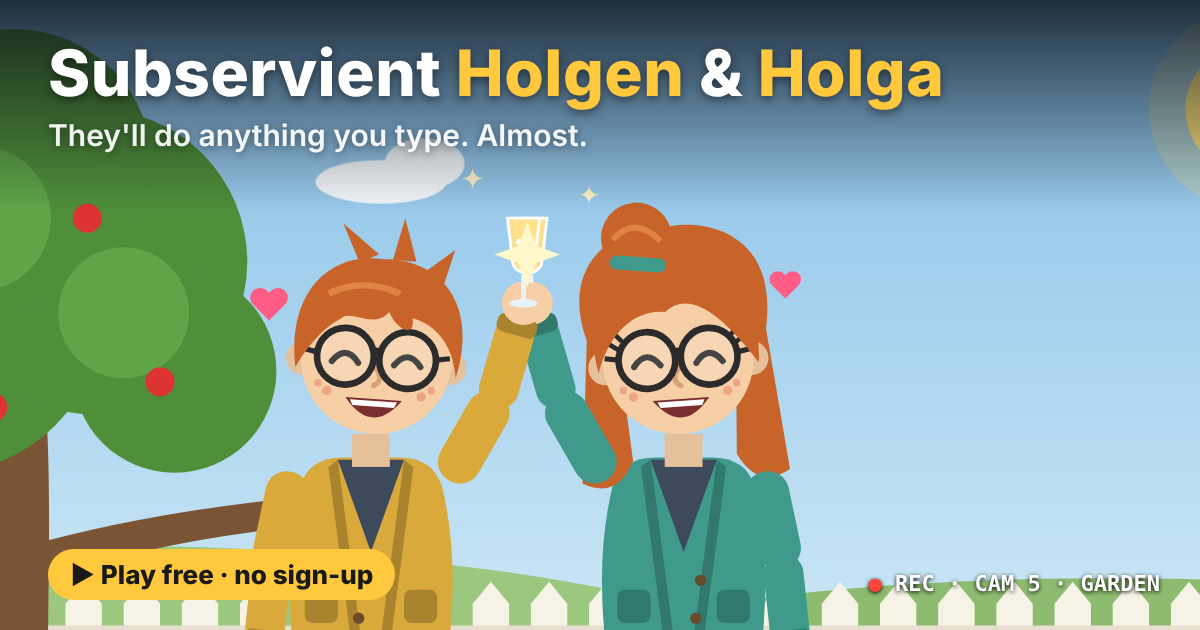
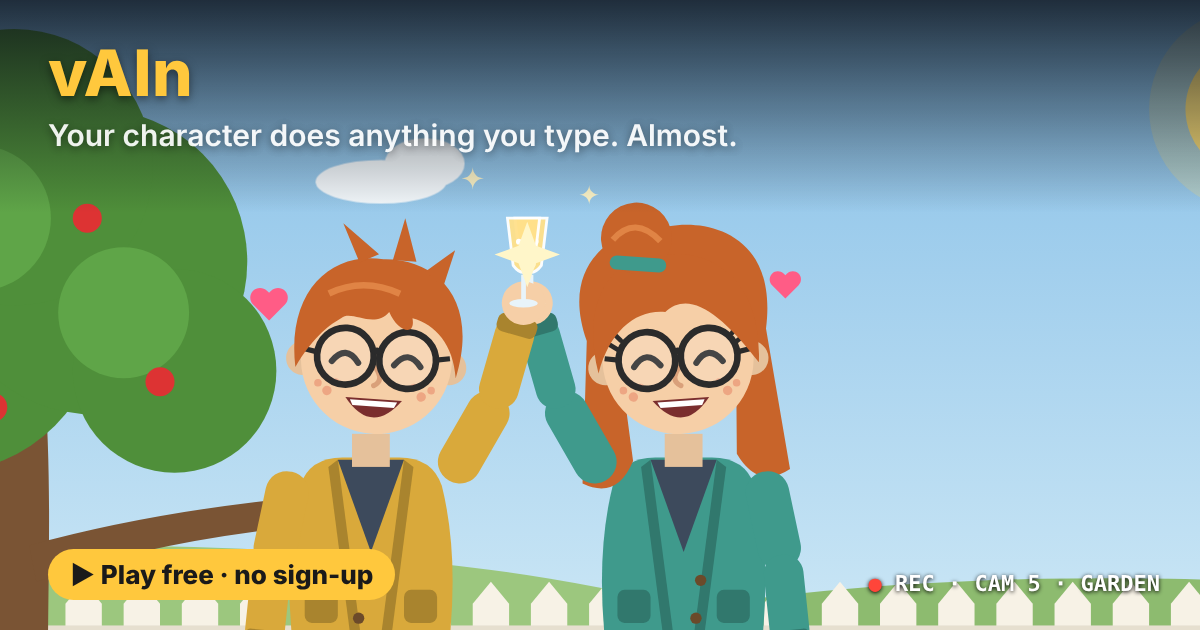
Rename to vAIn; empty name at start; looks never overwritten on other phones; synced positions, bots and passers-by
Claude-Session: https://claude.ai/code/session_016MybYDTzWbZ4jTzL4s6tYo

Changed region(s): [[0.0308, 0.0603, 0.8017, 0.2413]]

diff --git a/index.html b/index.html
@@ -3,19 +3,20 @@
 <head>
 <meta charset="utf-8">
 <meta name="viewport" content="width=device-width, initial-scale=1, maximum-scale=1, user-scalable=no, interactive-widget=resizes-content">
-<title>Subservient Holgen</title>
-<meta name="description" content="Holgen and Holga will do anything you type. Almost. A silly web toy: free, no sign-up.">
+<title>vAIn</title>
+<meta name="apple-mobile-web-app-title" content="vAIn"><meta name="application-name" content="vAIn">
+<meta name="description" content="vAIn: your character does anything you type. Almost. Free, no sign-up.">
 <meta property="og:type" content="website">
-<meta property="og:site_name" content="Subservient Holgen">
-<meta property="og:title" content="Subservient Holgen &amp; Holga">
+<meta property="og:site_name" content="vAIn">
+<meta property="og:title" content="vAIn">
 <meta property="og:description" content="They'll do anything you type. Almost. Play free, no sign-up.">
 <meta property="og:url" content="https://subservient-game.github.io/">
-<meta property="og:image" content="https://subservient-game.github.io/og.png">
+<meta property="og:image" content="https://subservient-game.github.io/og.png?v=2">
 <meta property="og:image:width" content="1200">
 <meta property="og:image:height" content="630">
 <meta property="og:image:alt" content="Holgen and Holga toasting in the garden">
 <meta name="twitter:card" content="summary_large_image">
-<meta name="twitter:image" content="https://subservient-game.github.io/og.png">
+<meta name="twitter:image" content="https://subservient-game.github.io/og.png?v=2">
 <meta name="theme-color" content="#131519">
 <link rel="icon" type="image/png" sizes="32x32" href="favicon-32.png">
 <link rel="icon" type="image/png" sizes="192x192" href="icon-192.png">
@@ -178,14 +179,14 @@
         <button type="button" data-k="m" class="on"><svg viewBox="-28 -104 56 108" id="pvM"></svg>Holgen</button>
         <button type="button" data-k="f"><svg viewBox="-28 -104 56 108" id="pvF"></svg>Holga</button>
       </div>
-      <input id="nameIn" maxlength="18" data-ip="name" placeholder="Name" value="Holgen" aria-label="Name">
+      <input id="nameIn" maxlength="18" data-ip="name" placeholder="Name" value="" aria-label="Name">
       <label class="codel"><span data-i="yourcode">Your 3-digit code</span><input id="codeIn" inputmode="numeric" pattern="[0-9]*" maxlength="3" aria-label="Code"></label>
       <button id="btnStart" style="width:100%" data-i="movein">Move in</button>
       <div id="setupMore" style="display:none;margin-top:10px"><button type="button" class="ghost" id="btnCancelSetup" style="width:100%;margin-bottom:8px" data-i="cancel">Cancel</button><button type="button" class="ghost" id="btnReset" style="width:100%;color:#ff8a80" data-i="restartAll">Start over from scratch</button></div>
     </div>
   </div>
 
-  <header class="top"><button type="button" id="btnNew" class="newbtn" aria-label="Change tenant">⟳</button><button type="button" id="btnLook" class="newbtn lookbtn" aria-label="Customise">🎨</button><h1 id="title">Subservient <span>Holgen</span></h1><div class="lang"><button type="button" data-l="en">EN</button><button type="button" data-l="it">IT</button></div></header>
+  <header class="top"><button type="button" id="btnNew" class="newbtn" aria-label="Change tenant">⟳</button><button type="button" id="btnLook" class="newbtn lookbtn" aria-label="Customise">🎨</button><h1 id="title">vAIn</h1><div class="lang"><button type="button" data-l="en">EN</button><button type="button" data-l="it">IT</button></div></header>
   <div class="cam" id="cam">
     <svg class="scene" id="scene" viewBox="0 0 480 300" preserveAspectRatio="xMidYMid slice" xmlns="http://www.w3.org/2000/svg">
       <defs>
@@ -1121,7 +1122,7 @@ function tween(props, ms, id){
 /* characters never stop on top of each other (unless asked explicitly) */
 const GAP=62;
 function freeSpot(x, self){
-  if (x<10 || x>470 || window.__closeOK) return x;
+  if (x<10 || x>470 || window.__closeOK || (self && self.player)) return x;
   const occ=[]; if (self!=='me') occ.push(H.destX??H.X);
   for (const n of NPCS) if (n!==self && n.room===H.room && n.alpha>0.2 && n.g.style.display!=='none') occ.push(n.destX??n.X);
   const ok=v=>occ.every(o=>Math.abs(o-v)>=GAP);
@@ -1327,7 +1328,7 @@ function buildPrompt(cmd){
   const states = Object.entries(ST.o).map(([k,v])=>{ const a=[]; if('on' in v) a.push(v.on?'on':'off'); if('open' in v) a.push(v.open?'open':'closed'); if(v.grow&&v.grow!==1) a.push('grown x'+v.grow.toFixed(2)); return a.length?`${k}:${a.join(',')}`:null; }).filter(Boolean).join('; ');
   const dark = Object.keys(ST.dark).filter(k=>ST.dark[k]).join(', ')||'none';
   const who = (H.kind==='f' ? `a woman (she/her)` : `a man (he/him)`)+`: ${(H.look&&H.look.hair)||'messy'} hair${H.look&&H.look.glasses===false?'':', round glasses'}`;
-  return `You direct "Subservient ${H.name}", a comedy web toy in the spirit of the old obedient-webcam sites. ${H.name} is ${who}, cardigan, pyjama trousers, slippers, usually holding a coffee mug. Lazy, deadpan, but obeys EVERYTHING, filmed by security cameras in a small house. Turn the viewer's command into an animation script. Be inventive, funny and generous: the viewer should feel ${H.name} can do anything. The players are adults (40+): crude, cheeky, sarcastic humour, insults and swearing (Italian or English) are welcome, in the lines and in the actions — just no explicit sexual content.
+  return `You direct ${H.name} in "vAIn", a comedy web toy in the spirit of the old obedient-webcam sites. ${H.name} is ${who}, cardigan, pyjama trousers, slippers, usually holding a coffee mug. Lazy, deadpan, but obeys EVERYTHING, filmed by security cameras in a small house. Turn the viewer's command into an animation script. Be inventive, funny and generous: the viewer should feel ${H.name} can do anything. The players are adults (40+): crude, cheeky, sarcastic humour, insults and swearing (Italian or English) are welcome, in the lines and in the actions — just no explicit sexual content.
 
 HOUSE (scene is 480 x 300, floor y≈258, x 0-480 left→right)
 Rooms: living, kitchen, bathroom, bedroom, garden. "goto" an object in another room walks there automatically.
@@ -1834,18 +1835,19 @@ const PASSERS = {
         {p:'sneeze',s:'ACHOO! Relax, not contagious. I think.'},{p:'look',s:'Where\'s the loo? No? I\'ll go here then.'},{p:'stomp',s:'Move it, loser!'},{p:'think',s:'Just picking my nose. Don\'t mind me.'}]
   }
 };
-function randomLook(kind){ const pick=a=>a[Math.floor(Math.random()*a.length)]; return {hair:pick(kind==='f'?['bun','long','pony','curly']:['short','bald','mohawk','curly']), hairColor:pick(LOOKS.hairColor), skin:pick(LOOKS.skin), glasses:Math.random()<.4, outfit:pick(LOOKS.outfit), pants:pick(LOOKS.pants)}; }
-async function passerBy(r){
-  if (H.room!==r || !PL.topic || PL.passer) return;
-  const kind=Math.random()<.5?'f':'m', fromLeft=Math.random()<.5;
-  const name=PASSERS.names[Math.floor(Math.random()*PASSERS.names.length)];
-  const n=makeNPC({name, kind, room:r, x:fromLeft?-50:530}); npcLook(n, randomLook(kind)); n.bot=true; n.passer=true; n.role=L2('passante','passer-by'); PL.passer=n;
-  const gags=PASSERS.gags[LANG==='it'?'it':'en']; const g=gags[Math.floor(Math.random()*gags.length)];
+function srand(...k){ let h=7; for (const v of k){ const n=typeof v==='string'?[...v].reduce((a,c)=>a*31+c.charCodeAt(0),0):v; h=(h*31+n)%2147483647; } let x=Math.sin(h*12.9898+78.233)*43758.5453; return x-Math.floor(x); }
+function randomLook(kind, seed){ if (seed!=null){ const pk=(a,i)=>a[Math.floor(srand(seed,i)*a.length)]; return {hair:pk(kind==='f'?['bun','long','pony','curly']:['short','bald','mohawk','curly'],1), hairColor:pk(LOOKS.hairColor,2), skin:pk(LOOKS.skin,3), glasses:srand(seed,4)<.4, outfit:pk(LOOKS.outfit,5), pants:pk(LOOKS.pants,6)}; } const pick=a=>a[Math.floor(Math.random()*a.length)]; return {hair:pick(kind==='f'?['bun','long','pony','curly']:['short','bald','mohawk','curly']), hairColor:pick(LOOKS.hairColor), skin:pick(LOOKS.skin), glasses:Math.random()<.4, outfit:pick(LOOKS.outfit), pants:pick(LOOKS.pants)}; }
+async function passerBy(r, sl){
+  if (H.room!==r || !PL.topic || PL.passer) return; if (sl==null) sl=Math.floor(Date.now()/1000);
+  const kind=srand(sl,r,3)<.5?'f':'m', fromLeft=srand(sl,r,4)<.5;
+  const name=PASSERS.names[Math.floor(srand(sl,r,5)*PASSERS.names.length)];
+  const n=makeNPC({name, kind, room:r, x:fromLeft?-50:530}); npcLook(n, randomLook(kind, sl)); n.bot=true; n.passer=true; n.role=L2('passante','passer-by'); PL.passer=n;
+  const gags=PASSERS.gags[LANG==='it'?'it':'en']; const g=gags[Math.floor(srand(sl,r,6)*gags.length)];
   try {
-    await npcWalk(n, clamp(H.X+(fromLeft?-60:60),40,440)); if (H.room!==r) return;
-    n.dir=H.X>n.X?1:-1; npcPose(n, POSES[g.p]?g.p:'idle'); npcSay(n, g.s, 3200);
+    await npcWalk(n, [110,190,280,360][Math.floor(srand(sl,r,7)*4)]); if (H.room!==r) return;
+    n.dir=fromLeft?1:-1; npcPose(n, POSES[g.p]?g.p:'idle'); npcSay(n, g.s, 3200);
     await sleep(3400); if (H.room!==r) return; npcPose(n,'idle');
-    if (Math.random()<.4){ npcSay(n, LANG==='it'?'Ciao bello/a!':'Bye, gorgeous!'); }
+    if (srand(sl,r,8)<.4){ npcSay(n, LANG==='it'?'Ciao bello/a!':'Bye, gorgeous!'); }
     await npcWalk(n, fromLeft?540:-60);
   } finally { removeNPC(n); if (PL.passer===n) PL.passer=null; }
 }
@@ -1890,15 +1892,22 @@ function enterPlace(r){
   try { PL.es=new EventSource(`${NTFY}/${PL.topic}/sse`); PL.es.onmessage=ev=>{ let m; try{ m=JSON.parse(ev.data); }catch(e){ return; } if (m.event!=='message') return; let d; try{ d=JSON.parse(m.message); }catch(e){ return; } onPlaceMsg(d, r); }; } catch(e){}
   postPlace({t:'here', ...myPublic()});
   setTimeout(()=>postPlace({t:'here', ...myPublic()}), 1500);
-  PL.hb=setInterval(()=>postPlace({t:'here', ...myPublic()}), 9000);
+  PL.lastSent=Date.now(); PL.lastX=H.X;
+  PL.unstack=setInterval(()=>{ if (H.room!==r || H.seat || H.lying || !['idle','drink'].includes(H.pose)) return; const me=topicOf(H.name,H.code);
+      const clash=Object.values(PL.peers).find(p=>p.arrived && Math.abs(p.n.X-H.X)<GAP-12 && (p.n.topic||'')<me);
+      if (clash){ const id=++runId; walkTo(freeSpot(H.X+(H.X<240?GAP:-GAP),'me'), id); } }, 2500);
+  PL.hb=setInterval(()=>{ const now=Date.now(), moved=Math.abs(H.X-PL.lastX)>5; if ((moved && now-PL.lastSent>3000) || now-PL.lastSent>12000){ PL.lastSent=now; PL.lastX=H.X; postPlace({t:'here', ...myPublic()}); } }, 1000);
   PL.sweep=setInterval(()=>{ const now=Date.now(); for (const id in PL.peers){ if (now-PL.peers[id].last>30000){ removeNPC(PL.peers[id].n); delete PL.peers[id]; } } }, 5000);
   PL.bots=(BOTS[r]||[]).map(b=>{ const n=makeNPC({name:b.name, kind:b.kind, room:r, x:b.post}); npcLook(n,b.look); n.bot=true; n.post=b.post; n.roam=b.roam||25; n.work=b.work; n.sells=b.sells; n.role=b.role; n.lines=b.lines; return n; });
-  clearTimeout(PL.passT); const nextPasser=()=>{ PL.passT=setTimeout(()=>{ if (H.room===r && Math.random()<.75) passerBy(r); if (PL.topic) nextPasser(); }, rnd(35000,75000)); }; PL.passT=setTimeout(()=>{ if (H.room===r) passerBy(r); nextPasser(); }, rnd(9000,18000));
-  PL.wander=setInterval(()=>{ for (const n of PL.bots){ if (n.busy||n.room!==H.room) continue; const p=Math.random();
-      if (p<.45){ npcPose(n, n.work[Math.floor(Math.random()*n.work.length)]); }
-      else if (p<.65){ npcWalk(n, clamp(n.post+rnd(-n.roam,n.roam),30,450)); }
-      else if (p<.78){ npcSay(n, n.lines[LANG==='it'?'it':'en'][Math.floor(Math.random()*n.lines[LANG==='it'?'it':'en'].length)]); }
-      else npcPose(n,'idle'); } }, 4500);
+  clearInterval(PL.passT); PL.passSlot=Math.floor(Date.now()/60000);
+  PL.passT=setInterval(()=>{ const sl=Math.floor(Date.now()/60000); if (sl===PL.passSlot) return; const off=Math.floor(srand(sl,r,1)*25000); if (srand(sl,r,2)<.7){ PL.passSlot=sl; setTimeout(()=>{ if (H.room===r) passerBy(r, sl); }, off); } else PL.passSlot=sl; }, 1000);
+  PL.wander=setInterval(()=>{ const slot=Math.floor(Date.now()/4500); if (slot===PL.lastSlot) return; PL.lastSlot=slot; PL.bots.forEach((n,bi)=>{ if (n.busy||n.room!==H.room||n.smuggler) return; const p=srand(slot,bi,r), q=srand(slot,bi,r,9);
+      if (H.room==='disco' && p<.6){ npcPose(n, ['dance','disco','twist','robot'][Math.floor(q*4)]); return; }
+      if (p<.45){ npcPose(n, n.work[Math.floor(q*n.work.length)]); }
+      else if (p<.65){ npcWalk(n, clamp(Math.round(n.post+(q*2-1)*n.roam),30,450)); }
+      else if (p<.78){ const L=n.lines[LANG==='it'?'it':'en']; npcSay(n, L[Math.floor(q*L.length)]); }
+      else npcPose(n,'idle'); }); }, 500);
+  PL.lastSlot=0;
   const it=LANG==='it'; const n=Object.keys(PL.peers).length;
   setTimeout(()=>{ const ppl=Object.keys(PL.peers).length; if (ppl) say(it?`C'è gente! (${ppl})`:`People here! (${ppl})`,2500); }, 2500);
 }
@@ -1908,6 +1917,7 @@ function leavePlace(silent){
   postPlace({t:'bye'});
   try{ PL.es&&PL.es.close(); }catch(e){} clearInterval(PL.hb); clearInterval(PL.sweep); clearInterval(PL.wander);
   clearTimeout(PL.passT); if (PL.passer){ removeNPC(PL.passer); PL.passer=null; }
+  clearInterval(PL.passT); clearInterval(PL.unstack);
   for (const id in PL.peers) removeNPC(PL.peers[id].n); PL.peers={};
   PL.bots.forEach(removeNPC); PL.bots=[]; PL.topic=null; PL.es=null;
 }
@@ -1919,8 +1929,11 @@ function onPlaceMsg(d, r){
   if (d.t==='here'){
     if (!p) postPlace({t:'here', ...myPublic()});
     if (!p){ const n=makeNPC({name:cleanTxt(d.name).slice(0,18)||'?', kind:d.kind==='f'?'f':'m', room:r, x:Math.random()<.5?-50:530}); n.player=true; p=PL.peers[id]={n, last:Date.now()};
-      npcWalk(n, clamp(+d.x||240,30,450)).then(()=>{ npcPose(n,'wave'); npcSay(n, LANG==='it'?'Ciao!':'Hi!'); setTimeout(()=>npcPose(n,'idle'),1800); }); }
-    p.last=Date.now(); if (typeof d.topic==='string' && /^subservient-game-v2-[a-z0-9-]+$/.test(d.topic)){ p.n.topic=d.topic; p.n.code=String(d.code||'').slice(0,3); } if (d.look) npcLook(p.n, d.look); if (d.costume && COST[d.costume]) npcCostume(p.n, d.costume);
+      npcWalk(n, clamp(+d.x||240,30,450)).then(()=>{ p.arrived=true; npcPose(n,'wave'); npcSay(n, LANG==='it'?'Ciao!':'Hi!'); setTimeout(()=>npcPose(n,'idle'),1800); }); }
+    p.last=Date.now(); if (typeof d.topic==='string' && /^subservient-game-v2-[a-z0-9-]+$/.test(d.topic)){ p.n.topic=d.topic; p.n.code=String(d.code||'').slice(0,3); }
+    if (d.look && JSON.stringify(d.look)!==JSON.stringify(p.n.look)){ p.n.look=d.look; npcLook(p.n, d.look); }
+    const ck=d.costume||'pajamas'; if (ck!==p.n.costumeKey){ p.n.costumeKey=ck; if (COST[ck]) npcCostume(p.n, ck); }
+    if (p.arrived && !p.n.running && typeof d.x==='number' && Math.abs(d.x-p.n.X)>6){ npcWalk(p.n, clamp(d.x,-60,540)); }
     return;
   }
   if (!p) return; p.last=Date.now();
@@ -2000,11 +2013,15 @@ function npcCostume(n, c){
   dressNPC(n, outfit, pants); n.g.style.setProperty('--skin',skin); n.g.style.setProperty('--skinD',shade(skin,.93));
   n.P.cHat.innerHTML=sanitizeSVG(m.hat||''); n.P.cFace.innerHTML=sanitizeSVG(m.face||'');
   n.P.cTorso.innerHTML=sanitizeSVG((n.kind==='f'?(m.torsoF||m.torso):(m.torsoM||m.torso))||''); n.P.cBack.innerHTML=sanitizeSVG(m.back||'');
+  if (n.look){ const L=n.look, base=!c.preset||c.preset==='pajamas';
+    n.P.hairBack.innerHTML=hairSVG(L,'back'); n.P.hairFront.innerHTML=hairSVG(L,'front'); if (n.P.glasses) n.P.glasses.style.display=L.glasses===false?'none':'';
+    if (!m.skin && L.skin){ const sk=normColor(L.skin)||SKIN; n.g.style.setProperty('--skin',sk); n.g.style.setProperty('--skinD',shade(sk,.93)); }
+    if (base){ const o=normColor(L.outfit)||outfit, pt=normColor(L.pants)||pants; dressNPC(n,o,pt); n.P.hairBack.innerHTML=hairSVG(L,'back'); n.P.hairFront.innerHTML=hairSVG(L,'front'); [n.P.thL2,n.P.thR2].forEach(e=>e.style.display=pt!=='#8fa9c9'?'none':''); } }
   n.P.hairBack.style.display=n.P.hairFront.style.display=m.hideHair?'none':'';
 }
 /* replay the other player's script on their character (simplified but faithful) */
 async function npcRun(n, steps){
-  if (!n) return; const my=++n.runId||(n.runId=1); n.runId=my;
+  if (!n) return; n.running=true; setTimeout(()=>{ n.running=false; }, 15000); const my=++n.runId||(n.runId=1); n.runId=my;
   for (const s of (steps||[]).slice(0,26)){
     if (n.runId!==my || !n.g.isConnected) return;
     const d=String(s.do||'');
@@ -2157,14 +2174,13 @@ function preview(kind){
 $('pvM').innerHTML=preview('m'); $('pvF').innerHTML=preview('f');
 document.querySelectorAll('.pick button').forEach(b=>b.onclick=()=>{
   pick=b.dataset.k; document.querySelectorAll('.pick button').forEach(x=>x.classList.toggle('on',x===b));
-  const n=$('nameIn'); if (!n.value || n.value==='Holgen' || n.value==='Holga') n.value = pick==='f'?'Holga':'Holgen';
 });
 function moveIn(kind, name, code){
   aiOK=(CONFIG.GEMINI_KEY||CONFIG.POLLINATIONS_KEY)?true:false;
   H.kind=kind; H.name=(name||'').trim().slice(0,18) || (kind==='f'?'Holga':'Holgen');
   code=String(code||'').replace(/\D/g,''); H.code = code.length===3 ? code : String(Math.floor(100+Math.random()*900));
   try { localStorage.setItem('subservient', JSON.stringify({kind:H.kind, name:H.name, code:H.code})); } catch(e){}
-  $('title').innerHTML=`Subservient <span>${esc(H.name)}</span>`; document.title=`Subservient ${H.name}`;
+  $('title').innerHTML=`vAIn <span>${esc(H.name)}</span>`; document.title=`vAIn · ${H.name}`;
   $('cmd').placeholder=tr('ph',H.name);
   if (!H.look || H.look.kind!==kind){ H.look={...defaultLook(kind), kind}; saveLook(); }
   applyKind(); applyCostume('pajamas'); setProp('mug');
@@ -2173,8 +2189,9 @@ function moveIn(kind, name, code){
   if (C.ready) updateIdentity(); else if (window.FB) communityStart(); else { renderSocial(); window.addEventListener('fb-ready', communityStart, {once:true}); }
   say(tr('hello'), 2500);
 }
-$('btnStart').onclick=()=>{ moveIn(pick, $('nameIn').value, $('codeIn').value); focusCmd(); };
-$('nameIn').addEventListener('keydown',e=>{ if(e.key==='Enter'){ e.preventDefault(); moveIn(pick, $('nameIn').value, $('codeIn').value); } });
+function needName(){ const n=$('nameIn'); if (n.value.trim()) return false; n.style.borderColor='#ff453a'; n.placeholder=LANG==='it'?'Scrivi il tuo nome':'Type your name'; n.focus(); return true; }
+$('btnStart').onclick=()=>{ if (needName()) return; moveIn(pick, $('nameIn').value, $('codeIn').value); focusCmd(); };
+$('nameIn').addEventListener('keydown',e=>{ if(e.key==='Enter'){ e.preventDefault(); if (needName()) return; moveIn(pick, $('nameIn').value, $('codeIn').value); } });
 $('codeIn').value=String(Math.floor(100+Math.random()*900));
 $('mynum').onclick=()=>{ $('nameIn').value=H.name; $('codeIn').value=H.code; $('setup').classList.remove('hide'); };
 
@@ -2194,7 +2211,7 @@ function dressNPC(n, outfit, pants){
   const sk=SKIN; n.outfit=outfit||n.outfit;
   n.g.style.setProperty('--outfit',n.outfit); n.g.style.setProperty('--outfitD',shade(n.outfit,.78));
   n.g.style.setProperty('--pants',pants||'#8fa9c9'); n.g.style.setProperty('--skin',sk); n.g.style.setProperty('--skinD',shade(sk,.93));
-  n.P.hairBack.innerHTML=HAIR[n.kind].back; n.P.hairFront.innerHTML=HAIR[n.kind].front;
+  if (n.look && typeof hairSVG==='function'){ n.P.hairBack.innerHTML=hairSVG(n.look,'back'); n.P.hairFront.innerHTML=hairSVG(n.look,'front'); } else { n.P.hairBack.innerHTML=HAIR[n.kind].back; n.P.hairFront.innerHTML=HAIR[n.kind].front; }
   n.P.lashes.innerHTML = n.kind==='f' ? `<path d="M-12.4 -19.6 l-2 -1.4 M-11.8 -21.6 l-1.6 -1.8 M12.4 -19.6 l2 -1.4 M11.8 -21.6 l1.6 -1.8" stroke="#2b2b2b" stroke-width="1" stroke-linecap="round"/>` : '';
   if (pants && pants!=='#8fa9c9') [n.P.thL2,n.P.thR2].forEach(e=>e.style.display='none');
 }
@@ -2550,7 +2567,7 @@ async function partnerStep(s, id){
 function openSetup(){
   pick = H.kind || 'm';
   document.querySelectorAll('.pick button').forEach(x=>x.classList.toggle('on', x.dataset.k===pick));
-  $('nameIn').value = H.name || (pick==='f'?'Holga':'Holgen');
+  $('nameIn').value = H.name || '';
   if ($('codeIn') && H.code) $('codeIn').value = H.code;
   $('setupMore').style.display = $('setup').classList.contains('hide') ? 'block' : 'none';
   const r=$('btnReset'); r.dataset.sure=''; r.textContent=tr('restartAll');
@@ -2674,7 +2691,7 @@ setInterval(()=>{ if(caption.textContent.startsWith('>')) return; if(H.pose==='i
 requestAnimationFrame(frame);
 
 /* auto-update: when a new version is published, reload by itself (only if the player isn't typing) */
-const BUILD='22';
+const BUILD='23';
 try{ document.getElementById('ver').textContent='Versione '+BUILD; }catch(e){}
 async function checkUpdate(){
   try { const r=await fetch('./?u='+Date.now(),{cache:'no-store'}); const t=await r.text(); const m=t.match(/const BUILD='([^']+)'/);
